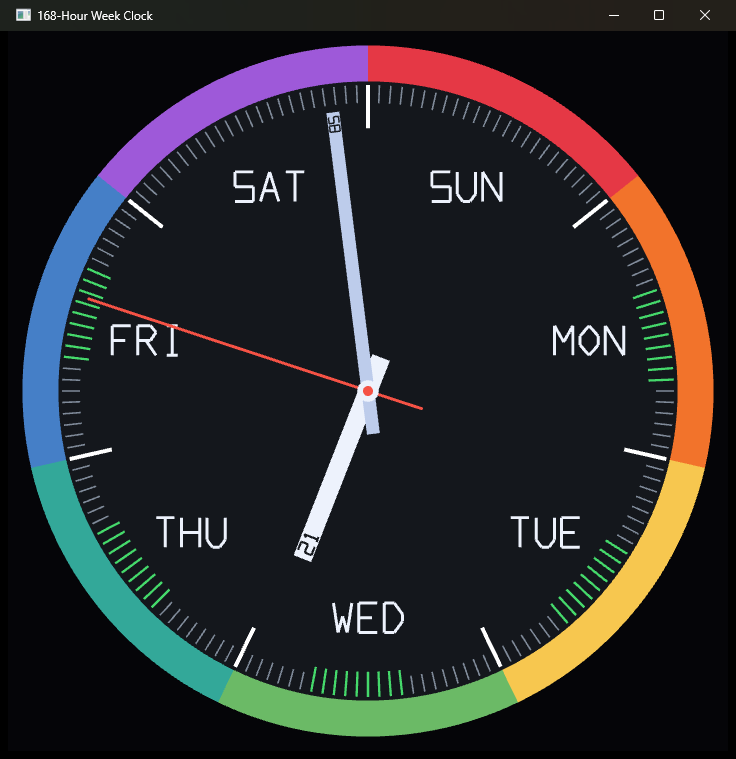
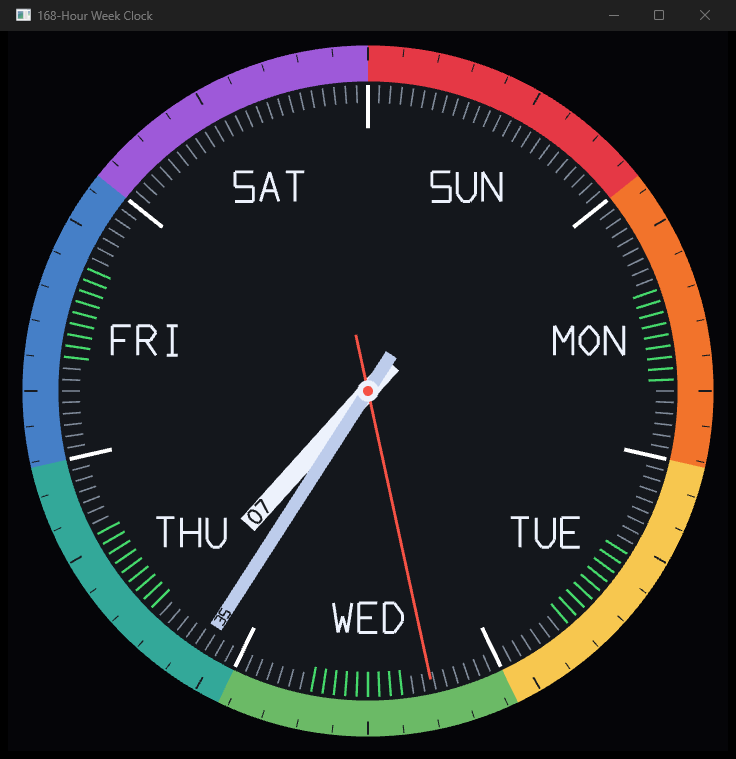
Add 60-mark minute track on the bezel

diff --git a/src/main.rs b/src/main.rs
@@ -372,6 +372,16 @@ fn build_clock(v: &mut Vec<Vertex>, sx: f32, sy: f32) {
         add_arc(v, d as f64 / 7.0, (d + 1) as f64 / 7.0, 0.86, 0.96, DAY_COLORS[d], 24);
     }
 
+    // 60 minute/second ticks set just inside the outer edge of the colored
+    // bezel, with slightly longer, thicker marks every 5.
+    for i in 0..60 {
+        let f = i as f64 / 60.0;
+        let (dx, dy) = dir(f);
+        let major = i % 5 == 0;
+        let (inner, w) = if major { (0.918, 0.0026) } else { (0.933, 0.0015) };
+        add_seg(v, [0.955 * dx, 0.955 * dy], [inner * dx, inner * dy], w, [0.10, 0.11, 0.13]);
+    }
+
     // 168 hour ticks. Day boundaries (every 24h) are long and white; the 9am-5pm
     // work hours on Mon-Fri are highlighted in green.
     for i in 0..168 {
